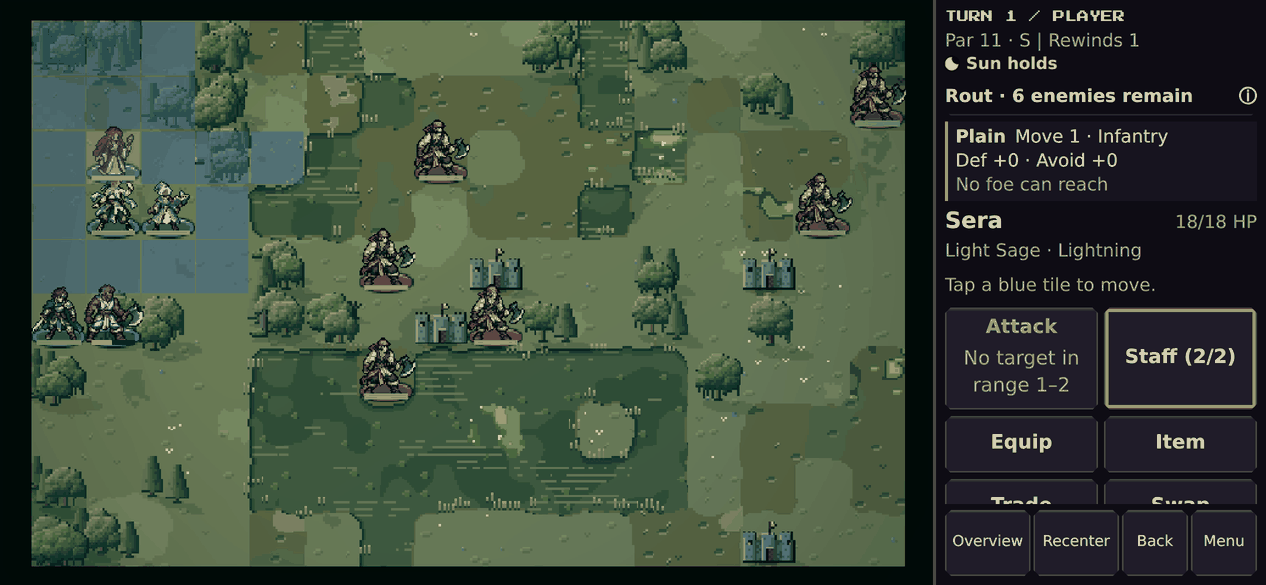
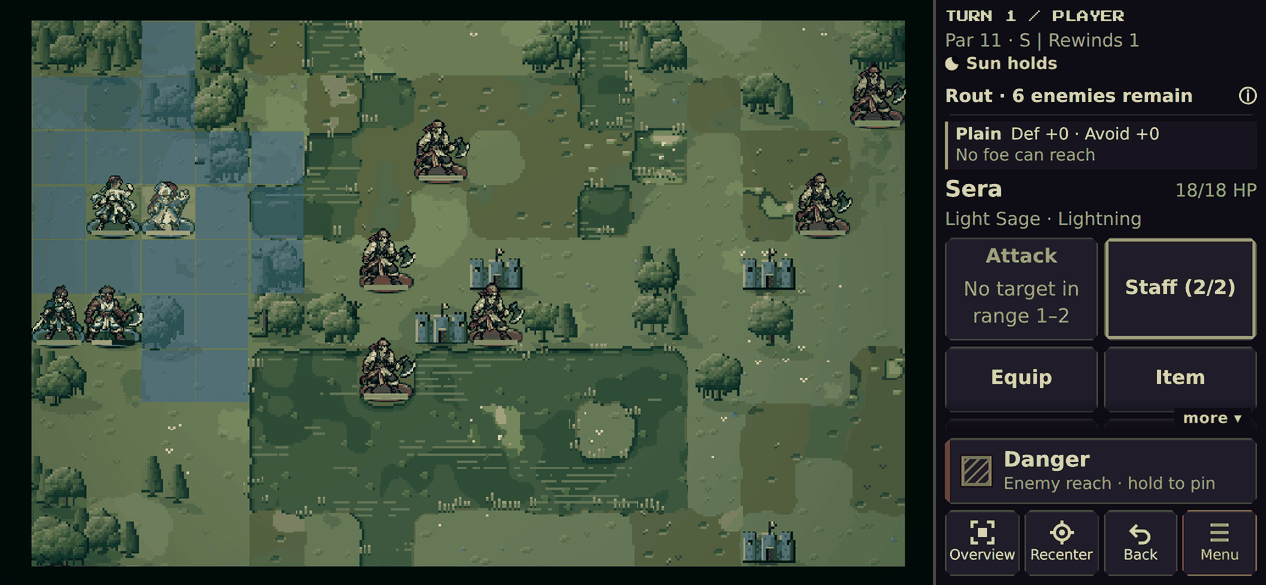
Threat sight kept light: eye + thin red line, no tile badge or corner ticks
Playtester direction (Fortune's Weave-style intent): show who can reach the
tile with a thin red line from each threatening enemy, never damage numbers,
and don't layer extra systems. The line is now a 1px thread over a faint ink
shadow with a small arrowhead; the per-enemy corner ticks and the count badge
on the target tile are gone (the count stays in the HUD: "2 foes can reach").
Captures and docs updated.

Claude-Session: https://claude.ai/code/session_01UCQ6vxQ4vBFTfGZXH6N3RV

diff --git a/src/ui/ThreatSightController.js b/src/ui/ThreatSightController.js
@@ -3,9 +3,10 @@
 // While a player unit is selected, every visible enemy that could strike the
 // destination under the cursor / grid cursor (or, with no hover, the unit's own
 // tile — after a tap-move that is the tentatively chosen destination) next enemy
-// phase gets a crimson eye above its head and a crimson ring at its feet, and a
-// short dashed ink line runs from it to the tile. A small tag on the tile gives
-// the count; the HUDs print the same count ("2 foes can reach").
+// phase gets a small crimson eye above its head and a thin red line from it to
+// the tile (Fortune's Weave-style intent: who, not how much — no damage numbers;
+// the forecast shows numbers when you actually attack). The HUDs print the count
+// ("2 foes can reach"); nothing else is drawn on the tile.
 //
 // Correctness: answers come from ThreatForecast.threatsOnTile — the Danger
 // overlay's own computation, evaluated with the mover set down on the tile.
@@ -15,10 +16,10 @@
 // Cost: a cheap key is compared each frame; the threat query runs only when the
 // focus tile, selection, turn or battle state changes, and is memoized per tile
 // against a world signature. Graphics are redrawn only when the answer changes.
-// Pulses are transform tweens on two small images (static under Reduce Motion).
+// The eye's bob is a stepped transform tween (static under Reduce Motion).
 
 import { TILE_SIZE } from '../utils/constants.js';
-import { UI_HEX, UI_PALETTE, UI_FONT_FAMILIES } from '../utils/uiStyles.js';
+import { UI_HEX } from '../utils/uiStyles.js';
 import { withPresentationRandom } from '../utils/presentationRandom.js';
 import { getFootprint, isEntity } from '../engine/EntitySystem.js';
 import {
@@ -31,9 +32,7 @@ import { ensureThreatSigilTexture } from '../art/threatSigil.js';
 // World depths (below SCREEN_UI so the phone's pinned UI camera leaves them alone).
 export const THREAT_SIGHT_DEPTHS = Object.freeze({
   LINES: 7.6, // above path dots (6) and objective tiles (7), below rings (8)
-  FRAMES: 8.5, // corner ticks, just above the faction ring
   SIGILS: 16, // above sprites, HP bars and affix pips
-  TAG: 16.5,
 });
 
 const ACTIVE_STATES = new Set(['UNIT_SELECTED', 'UNIT_ACTION_MENU']);
@@ -57,8 +56,6 @@ export class ThreatSightController {
     this._drawnKey = '';
     this.graphics = null;
     this.sigils = [];
-    this.tag = null;
-    this.tagText = null;
     this.destroyed = false;
     this._tick = () => this.sync();
   }
@@ -76,10 +73,6 @@ export class ThreatSightController {
     this.clear();
     this.graphics?.destroy?.();
     this.graphics = null;
-    this.tag?.destroy?.();
-    this.tagText?.destroy?.();
-    this.tag = null;
-    this.tagText = null;
     this._memo.clear();
   }
 
@@ -167,8 +160,6 @@ export class ThreatSightController {
       sigil.destroy?.();
     }
     this.sigils = [];
-    this.tag?.setVisible?.(false);
-    this.tagText?.setVisible?.(false);
   }
 
   sourcePoint(source) {
@@ -221,10 +212,8 @@ export class ThreatSightController {
     });
     for (const { unit, kind } of sources) {
       const from = this.sourcePoint(unit);
-      this._drawFrame(g, unit, kind);
       this._placeSigil(from, kind, reduce);
     }
-    this._placeTag(target, current.result.count);
   }
 
   _drawLine(g, from, to, kind) {
@@ -232,7 +221,7 @@ export class ThreatSightController {
     const dx = to.x - from.x;
     const dy = to.y - from.y;
     const length = Math.hypot(dx, dy);
-    if (length < TILE_SIZE * 0.75) return; // adjacent: the ring and eye say enough
+    if (length < TILE_SIZE * 0.75) return; // adjacent: the eye says enough
     const ux = dx / length;
     const uy = dy / length;
     // Start clear of the enemy sprite; stop at the target tile's edge.
@@ -244,70 +233,21 @@ export class ThreatSightController {
     const start = TILE_SIZE * 0.42;
     const end = length - exit;
     if (end - start < 6) return;
-    const dash = 5;
-    const gap = 3;
-    const segments = [];
-    for (let t = start; t < end; t += dash + gap) segments.push([t, Math.min(end, t + dash)]);
-    // Ink underlay first, then the crimson thread over it.
+    // A thin red thread over a faint ink shadow so it reads on every grade.
     for (const [width, color, alpha] of [
-      [4, UI_HEX.threatInk, 0.85],
-      [2, edge, 1],
+      [3, UI_HEX.threatInk, 0.55],
+      [1, edge, 0.95],
     ]) {
       g.lineStyle(width, color, alpha);
-      for (const [a, b] of segments) {
-        g.lineBetween(from.x + ux * a, from.y + uy * a, from.x + ux * b, from.y + uy * b);
-      }
+      g.lineBetween(from.x + ux * start, from.y + uy * start, from.x + ux * end, from.y + uy * end);
     }
-    // Arrowhead at the tile edge.
+    // A small arrowhead at the tile edge says which way the threat points.
     const tip = { x: from.x + ux * end, y: from.y + uy * end };
-    const back = { x: tip.x - ux * 6, y: tip.y - uy * 6 };
-    const px = -uy * 4;
-    const py = ux * 4;
-    const tri = [tip.x, tip.y, back.x + px, back.y + py, back.x - px, back.y - py];
-    g.fillStyle(UI_HEX.threatInk, 0.9);
-    g.fillTriangle(
-      tip.x + ux * 1.5,
-      tip.y + uy * 1.5,
-      back.x + px * 1.45 - ux,
-      back.y + py * 1.45 - uy,
-      back.x - px * 1.45 - ux,
-      back.y - py * 1.45 - uy,
-    );
-    g.fillStyle(edge, 1);
-    g.fillTriangle(...tri);
-  }
-
-  /** Crimson corner ticks framing the threatening source's tile(s). */
-  _drawFrame(g, unit, kind) {
-    const edge = kind === 'status' ? UI_HEX.threatStatus : UI_HEX.threatEdge;
-    const tiles = isEntity(unit) ? getFootprint(unit) : [unit];
-    const grid = this.scene.grid;
-    const points = tiles.map((t) => grid.gridToPixel(t.col, t.row));
-    const half = TILE_SIZE / 2;
-    const left = Math.min(...points.map((p) => p.x)) - half + 1;
-    const right = Math.max(...points.map((p) => p.x)) + half - 1;
-    const top = Math.min(...points.map((p) => p.y)) - half + 1;
-    const bottom = Math.max(...points.map((p) => p.y)) + half - 1;
-    const arm = 6;
-    const corners = [
-      [left, top, 1, 1],
-      [right, top, -1, 1],
-      [left, bottom, 1, -1],
-      [right, bottom, -1, -1],
-    ];
-    for (const [width, color, alpha] of [
-      [4, UI_HEX.threatInk, 0.85],
-      [2, edge, 1],
-    ]) {
-      g.lineStyle(width, color, alpha);
-      for (const [x, y, sx, sy] of corners) {
-        g.beginPath();
-        g.moveTo(x + sx * arm, y);
-        g.lineTo(x, y);
-        g.lineTo(x, y + sy * arm);
-        g.strokePath();
-      }
-    }
+    const back = { x: tip.x - ux * 4, y: tip.y - uy * 4 };
+    const px = -uy * 2.5;
+    const py = ux * 2.5;
+    g.fillStyle(edge, 0.95);
+    g.fillTriangle(tip.x, tip.y, back.x + px, back.y + py, back.x - px, back.y - py);
   }
 
   _placeSigil(from, kind, reduce) {
@@ -331,38 +271,5 @@ export class ThreatSightController {
         easeParams: [2],
       });
     }
-  }
-
-  _placeTag(target, count) {
-    const s = this.scene;
-    if (!count) {
-      this.tag?.setVisible?.(false);
-      this.tagText?.setVisible?.(false);
-      return;
-    }
-    if (!this.tagText) {
-      this.tagText = s.add
-        .text(0, 0, '', {
-          fontFamily: UI_FONT_FAMILIES.pixel,
-          fontSize: '8px',
-          color: UI_PALETTE.emberPale,
-        })
-        .setOrigin(0.5, 0.5)
-        .setDepth(THREAT_SIGHT_DEPTHS.TAG + 0.01);
-      this.tag = s.add.graphics().setDepth(THREAT_SIGHT_DEPTHS.TAG);
-    }
-    const label = String(count);
-    this.tagText.setText(label);
-    const w = Math.max(10, label.length * 8 + 4);
-    const h = 10;
-    const x = Math.round(target.x + TILE_SIZE / 2 - w / 2 - 1);
-    const y = Math.round(target.y - TILE_SIZE / 2 + h / 2 + 1);
-    this.tag.clear();
-    this.tag.fillStyle(UI_HEX.threatInk, 0.95);
-    this.tag.fillRect(x - w / 2 - 1, y - h / 2 - 1, w + 2, h + 2);
-    this.tag.fillStyle(UI_HEX.threatFill, 1);
-    this.tag.fillRect(x - w / 2, y - h / 2, w, h);
-    this.tag.setVisible(true);
-    this.tagText.setPosition(x + 0.5, y + 0.5).setVisible(true);
   }
 }

diff --git a/src/utils/pixelFontGrid.js b/src/utils/pixelFontGrid.js
@@ -23,7 +23,7 @@ export const PIXEL_FONT_SIZES = Object.freeze([6, 7, 8, 9, 10, 11, 12, 13, 14, 1
  * change the size by more than `tolerance` (e.g. 12px at DPR 1 -> 8 or 16) keeps
  * the design size instead.
  */
-export function snapPixelFontSize(size, { dpr = 1, scale = 1, tolerance = 0.25, mode } = {}) {
+export function snapPixelFontSize(size, { dpr = 1, scale = 1, tolerance = 0.3, mode } = {}) {
   const n = Number(size);
   if (!Number.isFinite(n) || n <= 0) return size;
   const d = Number.isFinite(dpr) && dpr > 0 ? dpr : 1;

diff --git a/docs/specs/threat-and-onboarding.md b/docs/specs/threat-and-onboarding.md
@@ -24,9 +24,13 @@ While a player unit is selected (`UNIT_SELECTED`, or the action menu before it a
   Back undoes it.
 - **Who.** Every *visible* enemy that could strike that tile next enemy phase: a crimson
   **eye** above its head (`src/art/threatSigil.js`, 17×9 art px, ink outline + glow,
-  slit pupil; violet for status staves), crimson **corner ticks** on its tile and a short
-  dashed **ink line** with an arrowhead from it to the tile (max 8 lines). A crimson
-  **count tag** sits on the tile.
+  slit pupil; violet for status staves) and a **thin red line** (1 px over a faint ink
+  shadow, small arrowhead) from it to the tile, max 8 lines. Intent stays light, in the
+  style of Fortune's Weave: *who* can reach, never damage numbers (rolling the dice is part
+  of the Fire Emblem feel; the forecast shows numbers when you actually attack). An earlier
+  iteration also drew corner ticks on each enemy's tile and a count badge on the target
+  tile; both were removed after playtester feedback ("more systems ≠ better") — the lines
+  read better than a tile badge, and the count lives in the HUD only.
 - **Move preview.** Phone rail terrain card: "2 foes can reach" (crimson when > 0; "No foe can
   reach" otherwise; "· 1 staff"; "· fog may hide more" under fog). Desktop info panel:
   `Threat: 2 foes can reach`. Worded "foes can reach" so it never reads like the Danger
@@ -45,8 +49,8 @@ While a player unit is selected (`UNIT_SELECTED`, or the action menu before it a
   changes; the eye's bob is a stepped 2-px transform tween (static under Reduce Motion).
 - **No RNG.** Construction runs under the presentation RNG; e2e asserts the battle RNG
   cursor is unchanged by hovering.
-- Depths stay in world space (< `SCREEN_UI`): lines 7.6, corner ticks 8.5, eyes 16, tag
-  16.5 — readable over every act grade (captured act1–act4 + deep).
+- Depths stay in world space (< `SCREEN_UI`): lines 7.6, eyes 16 — readable over every act
+  grade (captured act1–act4 + deep).
 
 ## 2. New-player support
 
@@ -130,7 +134,7 @@ browser zoom 110% (DPR 2.2) / 90% (DPR 1.8). Two causes:
    the desktop title's transform / ceremony `--ce-scale`) a Retina screen gets 1.75–3.75
    device pixels per font pixel: uneven strokes. `pixelFontGrid` publishes `--re-pf-N`
    (N = 6…24) snapped to the nearest size whose font pixels are whole device pixels for the
-   current DPR (ties go down, ±25% cap, follows zoom / display changes). CSS uses
+   current DPR (ties go down, ±30% cap, follows zoom / display changes). CSS uses
    `var(--re-pf-N, Npx)`; the title stage publishes `--rt-pf-N` for its scale and
    ceremonies `--ce-pf-7/8`. Cinzel and the body face are vector faces and were fine.
 
@@ -155,4 +159,4 @@ e2e: `threat-sight.spec.js` (desktop hover, reduced motion, touch), `guidance-no
   shares the Danger overlay's *computation* (which lives on main) and uses its palette
   tokens (`threatEdge/Ink/Fill/Status`, identical values). Field notes are a small
   separate component styled like the coach; they can move into the coach once it lands.
-- The line is straight and dashed (2D), not an arc.
+- The line is a straight thin 2D thread, not a 3D arc.

diff --git a/docs/design-log.md b/docs/design-log.md
@@ -16,8 +16,9 @@ convoy; a Mac desktop player saw "chunky" text. Spec and deviations:
 
 **Decisions**
 - **Threat sight.** While moving, every visible enemy that could strike the chosen tile
-  next phase gets a crimson eye, corner ticks and a dashed ink line; the tile gets a count
-  and the HUD says "2 foes can reach". Eyes instead of 3D arcs; lines kept short and 2D.
+  next phase gets a small crimson eye and a thin red line to the tile; the HUD says
+  "2 foes can reach". Kept light (Fortune's Weave): who can reach, never damage numbers.
+  Corner ticks and a tile count badge were tried and dropped — "more systems ≠ better".
 - **One threat computation.** The Danger overlay's math moved to `engine/ThreatForecast.js`;
   threat sight asks it the same question with the mover set down on the destination.
   Hidden (fogged) enemies are never evaluated.

diff --git a/docs/art-direction/ux-polish/playtest-2/README.md b/docs/art-direction/ux-polish/playtest-2/README.md
@@ -9,7 +9,7 @@ into reach; palette PNGs.
 
 | | |
 |---|---|
-| `threat-1280.png` | Desktop: hovering a destination. Each enemy that can reach it gets a crimson eye, corner ticks and a dashed ink line; the tile carries the count; the info panel reads `Threat: 4 foes can reach`. |
+| `threat-1280.png` | Desktop: hovering a destination. Each enemy that can reach it gets a small crimson eye and a thin red line to the tile (no damage numbers, nothing drawn on the tile); the info panel reads `Threat: 4 foes can reach`. |
 | `threat-844.png` | Phone: after the tap-move (tentative, Back undoes it) the eyes stay on; the rail's terrain card says **4 foes can reach**. |
 | `threat-grades-1280.png` | The same marks under the act grades act1, act2, act3 (top) and act4 night, the Deep (bottom), Atmosphere Full. |
 
